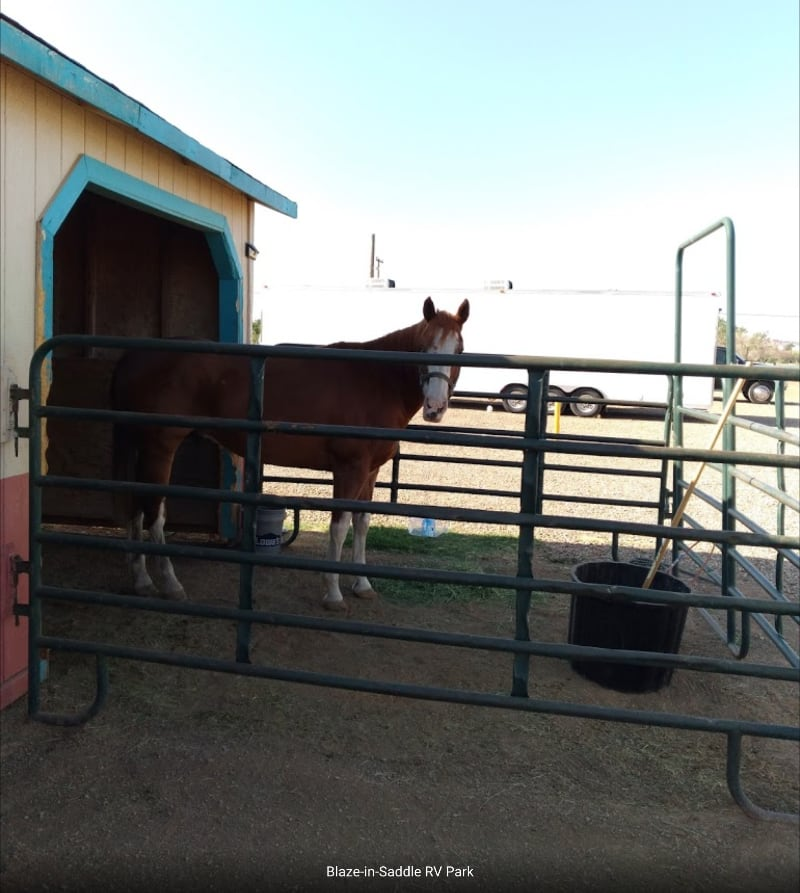
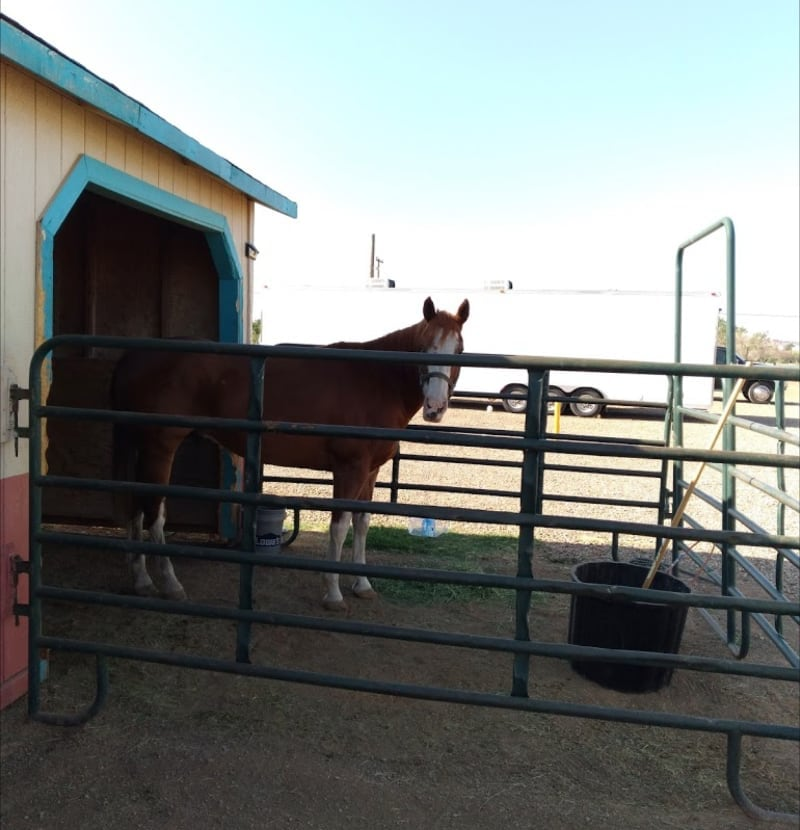
new review and photo

diff --git a/reviews/index.html b/reviews/index.html
@@ -51,6 +51,16 @@
 					&starf;&starf;&starf;&starf;&starf;
 				</p>
 				<p>
+					&ldquo;This place is a gem of a place. The cleanest campground I have ever stayed in. Plenty of spaces, 3 great showers, and a laundry room. The nicest brothers who run this place. They help you check in, help you park, and help you with the wifi.&rdquo;
+				</p>
+				<p>
+					&mdash; Cheryl Parker, June 2021 (via <a href="https://www.google.com/maps/place/Blaze-in-Saddle+RV+Park/@35.1713844,-103.6964748,17z/data=!3m1!4b1!4m5!3m4!1s0x0:0x9ae51b1da5d76040!8m2!3d35.1713844!4d-103.6942861?hl=en">Google</a>)
+				</p>
+				<hr>
+				<p>
+					&starf;&starf;&starf;&starf;&starf;
+				</p>
+				<p>
 					&ldquo;The moment I drove up, after a 9-hour drive with my horse and trailer thru crazy rain and wind, I was greeted with a great smile from the staff. Was shown where my horse, Cash, really liked the facilities. Would recommend this awesome place to anyone traveling with a horse or RV.&rdquo;
 				</p>
 				<p>
@@ -658,7 +668,13 @@
 <!-- /.col -->
 		<div class="col-md-6">
 			<figure>
-				<img src="/_assets/img/202106-jody-akkerman.jpg" alt="Photo by Jody Akkerman" height="893" width="800" class="img-thumbnail">
+				<img src="/_assets/img/202106-paige-nugent.jpg" alt="Photo by Paige Nugent" height="428" width="800" class="img-thumbnail">
+				<figcaption>
+					Photo by Paige Nugent
+				</figcaption>
+			</figure>
+			<figure>
+				<img src="/_assets/img/202106-jody-akkerman.jpg" alt="Photo by Jody Akkerman" height="830" width="800" class="img-thumbnail">
 				<figcaption>
 					Photo by Jody Akkerman
 				</figcaption>
